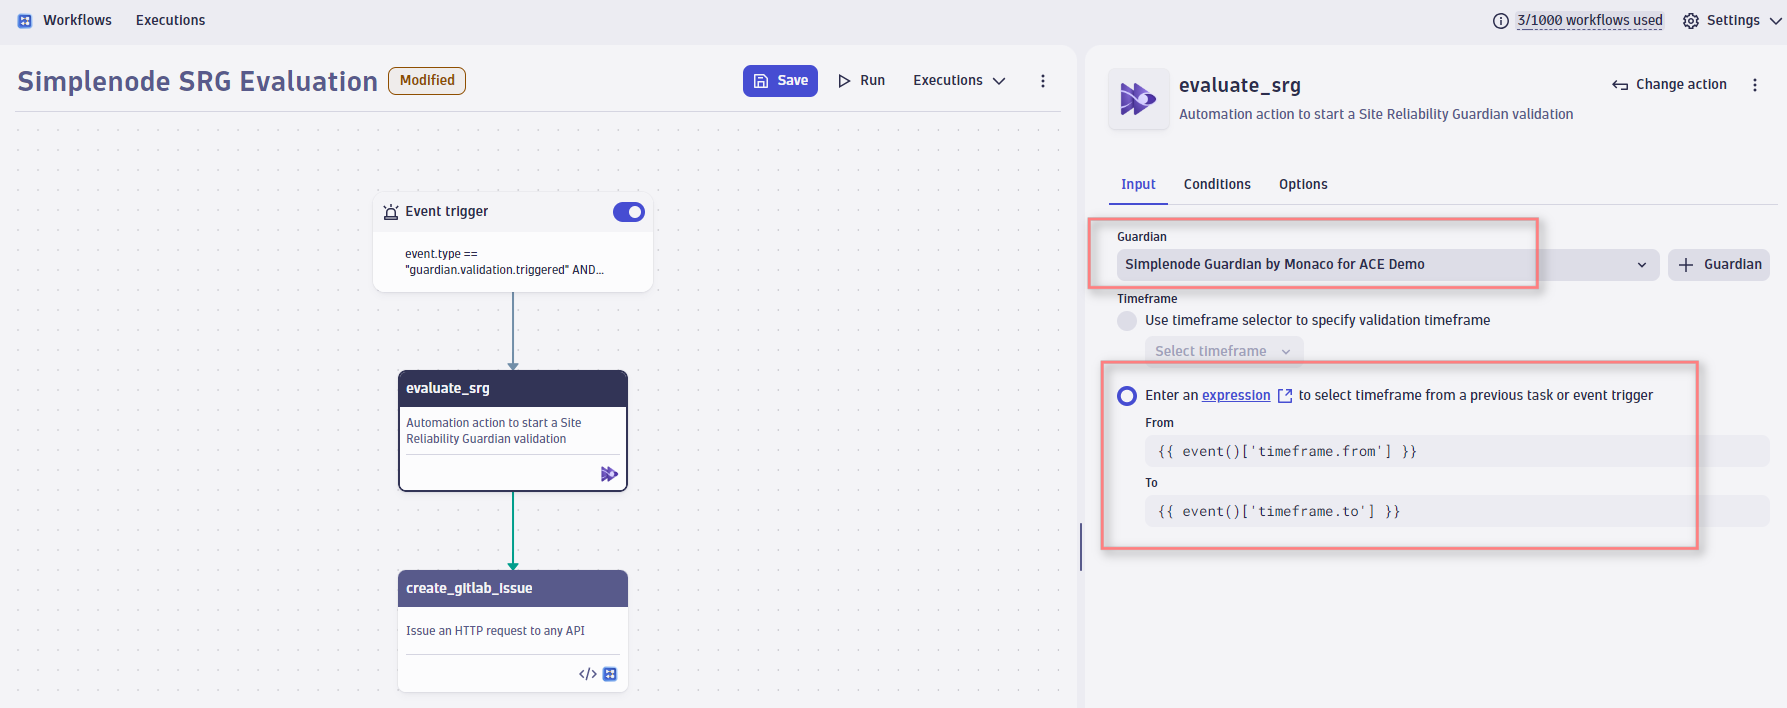
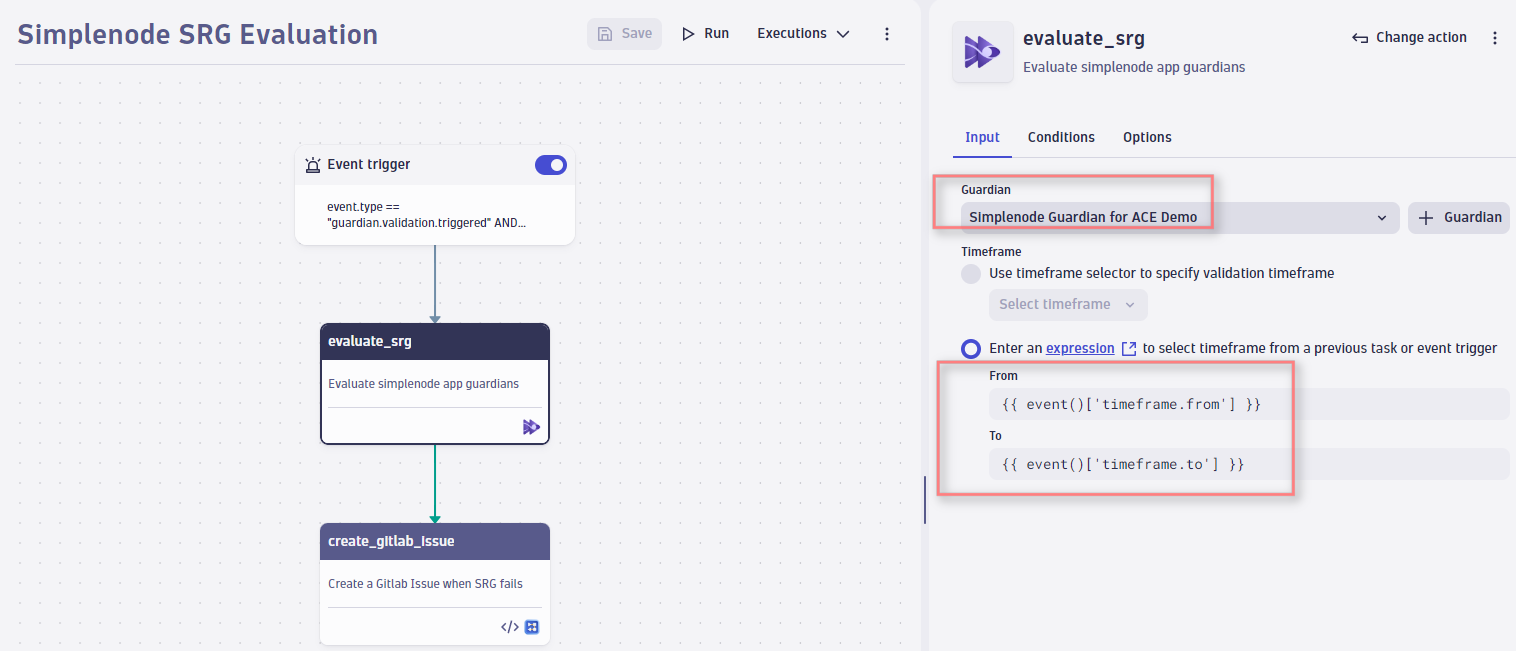
srg image

diff --git a/user-skel/ansible/roles/demo-release-validation-srg-gitlab/files/docs/02_Workflow_SRG/README.md b/user-skel/ansible/roles/demo-release-validation-srg-gitlab/files/docs/02_Workflow_SRG/README.md
@@ -23,10 +23,12 @@ After installing the application, you are ready to configure a guardian yourself
 ![gitlab-cicd](assets/gitlab_pipeline_srg_job.png)
 
 
-If you open the Site Reliability Guardian `Simplenode Guardian by Monaco for ACE Demo`, you will see below screen:
+If you open the Site Reliability Guardian `Simplenode Guardian for ACE Demo`, you will see below screen:
+
 ![gitlab-cicd](assets/srg_edit_name.png)
 
 There are multiple objectives attached to this SRG using the type DQL or SLO. 
+
 ![gitlab-cicd](assets/srg_objective_1.png)
 ![gitlab-cicd](assets/srg_objective_2.png)
 
